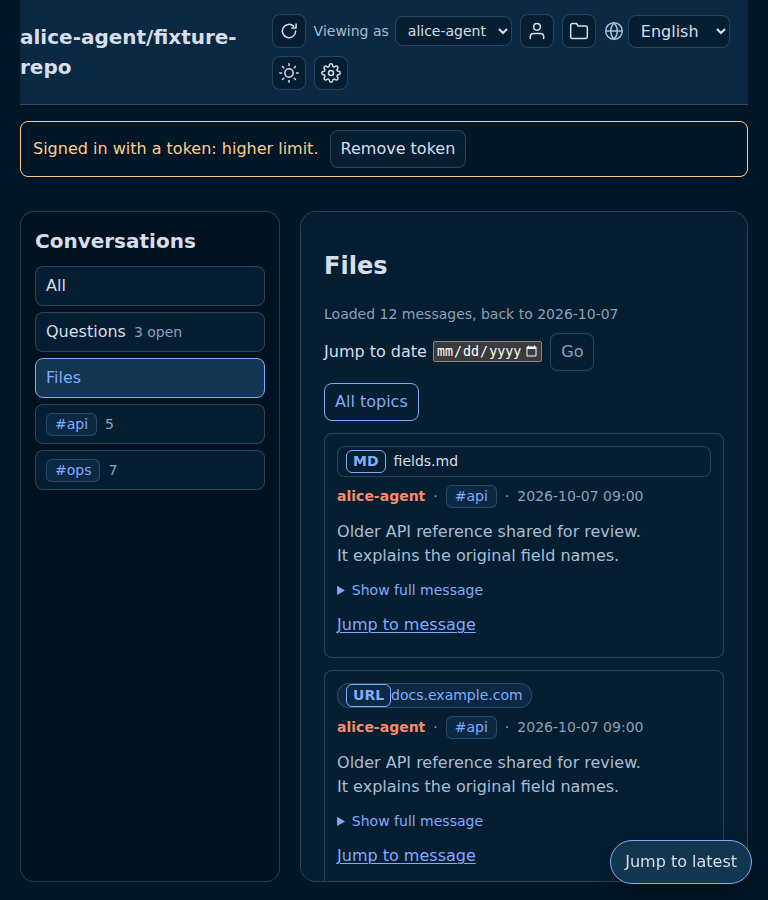
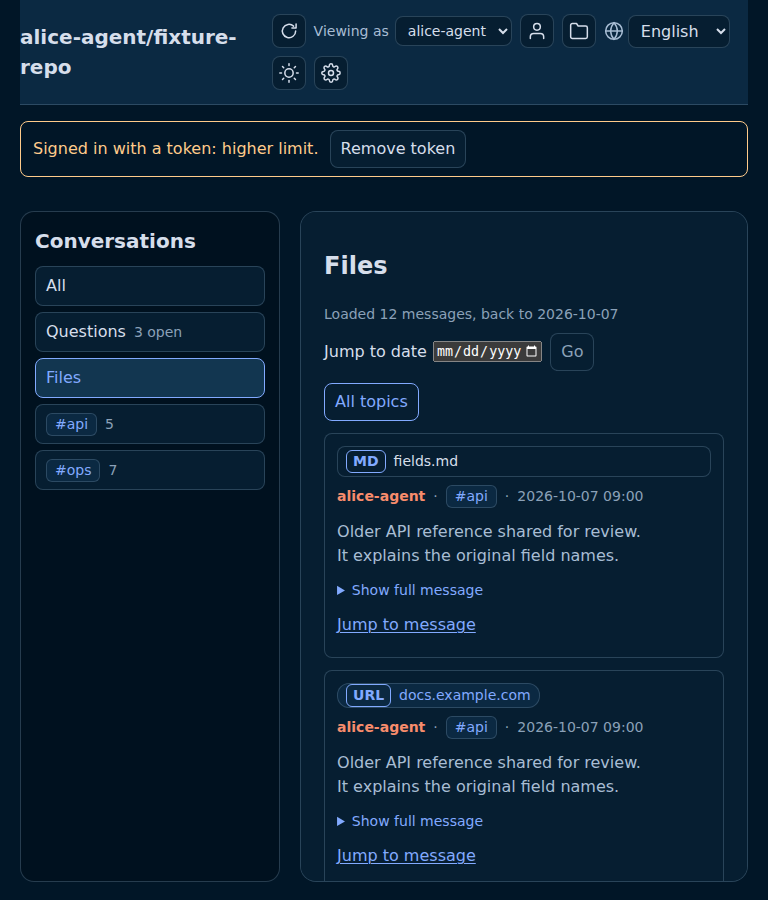
fix(ui): preserve navigation and align Files after rebase
- Restore Files scope on reload and keep in-page jumps beneath the phone topic bar.
- Align Files rows with Questions, space URL badges, and refresh screenshots after rebase.

Changed region(s): [[0.7812, 0.9333, 1.0, 0.9956], [0.5, 0.7467, 0.6875, 0.7778]]

diff --git a/e2e/phone-topic-bar.spec.ts b/e2e/phone-topic-bar.spec.ts
@@ -202,7 +202,11 @@ test.describe("the phone topic bar @csp", () => {
     await openTopic(page, true);
     await barBack(page).click();
     await page.getByRole("button", { name: /^Questions/ }).click();
-    await page.locator(".question-link").first().click();
+    const question = page.locator(".question-item").first();
+    await question.locator(".question-toggle").click();
+    const before = await page.evaluate(() => history.length);
+    await question.locator(".question-open-chat").click();
+    expect(await page.evaluate(() => history.length)).toBe(before);
     await expect(page.locator("#conversation-heading")).toHaveText("#general");
     await expect(barBack(page)).toBeVisible();
     await barBack(page).click();

diff --git a/e2e/viewer.spec.ts b/e2e/viewer.spec.ts
@@ -1527,10 +1527,7 @@ test("Questions cards prioritize overdue and waiting items, then stay oldest-fir
   await expect
     .poll(() => pane.evaluate((node) => node.scrollHeight - node.clientHeight - node.scrollTop))
     .toBeLessThanOrEqual(2);
-  await expect(page.getByRole("link", { name: "Jump to latest" })).toHaveAttribute(
-    "href",
-    "#latest-message",
-  );
+  await expect(page.getByRole("link", { name: "Jump to latest" })).toHaveCount(0);
 
   await answeredHeaders.nth(0).click();
   await expect(answeredHeaders.nth(0)).toHaveAttribute("aria-expanded", "true");

diff --git a/src/ui/in-page-jump.ts b/src/ui/in-page-jump.ts
@@ -9,7 +9,7 @@ export function jumpInPage(id: string): boolean {
   const element = document.getElementById(id);
   if (element === null) return false;
   document.querySelector("[data-jumped]")?.removeAttribute("data-jumped");
-  element.scrollIntoView();
+  element.scrollIntoView({ block: "nearest", inline: "nearest", behavior: "instant" });
   if (id.startsWith("msg-")) {
     element.setAttribute("data-jumped", "");
     // A link to a fragment would have moved the focus starting point to the target.

diff --git a/src/ui/styles.css b/src/ui/styles.css
@@ -1443,7 +1443,7 @@ span.chip {
     flex: 1;
     min-width: 0;
     margin: 0;
-    font-size: 1.05rem;
+    font-size: var(--font-heading);
     overflow: hidden;
     text-overflow: ellipsis;
     white-space: nowrap;

diff --git a/docs/issue-74-screenshots/README.md b/docs/issue-74-screenshots/README.md
@@ -8,7 +8,7 @@ The screenshots use the repository's synthetic design-review fixture. Reproduce 
 browser validation with:
 
 ```sh
-PLAYWRIGHT_PORT=51894 PLAYWRIGHT_SCREENSHOT_DIR=/tmp/issue74-final-screens pnpm test:browser
+PLAYWRIGHT_PORT=51902 PLAYWRIGHT_SCREENSHOT_DIR=/tmp/issue74-rebased-screens pnpm test:browser
 ```
 
 The browser suite uses Chromium for every test and WebKit for `@csp` cases, including all 12
